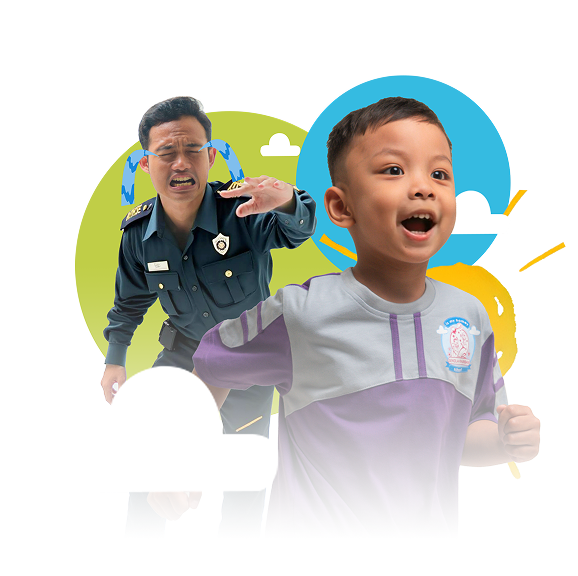
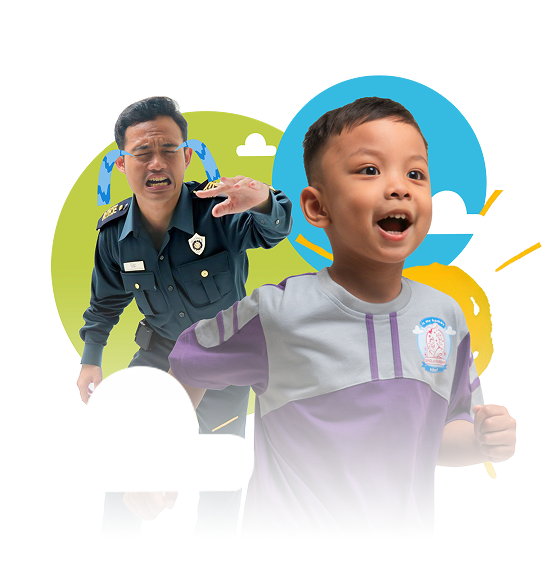
update

diff --git a/public/assets/css/app.css b/public/assets/css/app.css
@@ -1,6 +1,8 @@
 /* Global styles */
 body {
     font-family: 'Poppins', sans-serif !important;
+    font-weight: 900;
+    font-style: normal;
     line-height: 1.5;
     max-width: 500px;
     margin: auto !important;
@@ -11,7 +13,8 @@ body {
 }
 
 .tittle {
-    font-weight: 900 !important;
+    font-weight: 700 !important;
+    color: #333333 !important;
 }
 
 .container-program {
@@ -57,6 +60,35 @@ body {
     background-image: linear-gradient( #EEDDFF, #FFF);
 }
 
+.ellipse_pink {
+    position: absolute;
+    bottom: -15%;
+    right: 0;
+}
+
+.icon_wajik {
+    position: absolute;
+    top: 6%;
+    left: 50%;
+}
+
+.icon_wajik_2 {
+    position: absolute;
+    top: 11%;
+    left: 55%;
+}
+
+.section-9 {
+    margin-top: 1rem;
+    position: relative;
+}
+
+.icon_underscore {
+    position: absolute;
+    top: 13%;
+    left: 36%;
+}
+
 .img-sec-5 {
     position: relative;
     left: 175px;
@@ -64,7 +96,7 @@ body {
 
 .text-sec-5 {
     position: absolute;
-    width: 13%;
+    width: 37%;
     z-index: 1000;
     margin-left: 2rem;
 }
@@ -122,8 +154,8 @@ body {
 }
 .txt-nyaman {
     color: #333333;
-    font-weight: 900;
-    -webkit-text-stroke: 10px white;
+    font-weight: 700;
+    -webkit-text-stroke: 5px white;
     paint-order: stroke fill;
 }
 
@@ -148,7 +180,7 @@ body {
     margin-left: auto;
     margin-right: auto;
     width: 275px;
-    height: 360px;
+    height: 300px;
     border-radius: 1rem;
     background-color: #f3efef;
     object-fit: cover;
@@ -162,8 +194,14 @@ body {
 
 .icon-toga {
     position: absolute;
-    top: 18%;
-    right: 17%;
+    top: 20%;
+    right: 20%;
+}
+
+.ellipse_purple {
+    position: absolute;
+    top: 23%;
+    right: 0;
 }
 
 .icon-toga-2 {
@@ -204,11 +242,10 @@ body {
 .embed-responsive-short {
     display: flex;
     justify-content: center;
-    height: 500px;
+    height: 800px;
 }
 
 iframe {
-    aspect-ratio: 16 / 9;
     width: 100% !important;
 }
 
@@ -371,11 +408,10 @@ iframe {
     
     .text-sec-5 {
         position: absolute;
-        width: 38%;
+        width: 40%;
         left: 50px;
         z-index: 1000;
         margin-left: 0;
-        font-size: 12px;
 
     }
 
@@ -411,6 +447,30 @@ iframe {
         3s linear 0s infinite alternate toright;
     }
 
+    .icon_underscore {
+        position: absolute;
+        top: 12%;
+        left: 43%;
+    }
+
+    .ellipse_purple {
+        position: absolute;
+        top: 19%;
+        right: 0;
+    }
+
+    .icon_wajik {
+        position: absolute;
+        top: 6%;
+        left: 55%;
+    }
+    
+    .icon_wajik_2 {
+        position: absolute;
+        top: 11%;
+        left: 60%;
+    }
+
   }
 
   @property --num {
@@ -422,7 +482,8 @@ iframe {
   .counter {
     animation: counter 5s forwards ease-in-out;
     counter-reset: num var(--num);
-    font: 800 40px system-ui;
+    font-family: 'roboto';
+    font: 800 60px system-ui;
     padding: 2rem;
   }
   

diff --git a/resources/views/index.blade.php b/resources/views/index.blade.php
@@ -4,54 +4,13 @@
 
     <div class="container">
         <div class="section-1">
-            <img src="{{asset('assets/images/text_rsu.png')}}" alt="text_rabbani_school" width="60%" >
-
-            <div class="mt-3">
-                {{-- <button class="btn-mulai"> <b> Ayo Mulai </b> </button> --}}
-            </div>
-
-            <img src="{{asset('assets/images/cover.png')}}" alt="cover" width="100%" >
-            
-            <div class="d-flex">
-                <div class="card-1">
-                    <div class="d-flex" style="justify-content: space-between">
-                        <img src="{{asset('assets/images/m_rifki.png')}}" alt="p_m_rifki" width="15%" >
-                        <img src="{{asset('assets/images/5_star.png')}}" alt="5_star" width="30%" height="45%" >
-                    </div>
-
-                    <h6 class="mb-1 mt-2"><b> Dr. H. Mochamad Rifki Romdhoni, S.Ag., M.M.Pd </b> </h6>
-                    <p class="mb-2" style="font-size: 8px"> <i> Tim Penguji Kemenag </i> </p>
-                    <p style="text-align: justify; font-size: 10px"> “Alhamdulillah Untuk sekolah Rabbani hasil penilaian kami terkait dengan <b>hafalan qur'an sangat memuaskan </b> dan di atas standar, 
-                        terlihat bukti keberhasilan bapak ibu <b>guru pembimbing tahfidz</b> di sekolah rabbani berhasil membimbing anak-anaknya.” 
-                    </p>
-                </div>
-                <div class="" style="width:30%">
-                    <img src="{{asset('assets/images/card_3k.png')}}" alt="card_3k" width="120" >
-                    <img src="{{asset('assets/images/hand_hold_quran.png')}}" alt="icon_hand_quran" width="100" >
-                </div>
-            </div>
-            <div class="d-flex" style="align-items: center">
-                <img src="{{asset('assets/images/innovate_icon.png')}}" alt="cover" width="25%" >
-
-                <div class="card-2">
-                    <div class="d-flex" style="justify-content: space-between">
-                        <img src="{{asset('assets/images/bambang_ariyanto.png')}}" alt="bambang_ariyanto" width="15%" >
-                        <img src="{{asset('assets/images/5_star.png')}}" alt="5_star" width="30%" height="45%" >
-                    </div>
-
-                    <h6 class="mb-1 mt-2"> <b> Bambang Ariyanto </b> </h6>
-                    <p class="mb-2" style="font-size: 8px"> <i> Kepala Bidang PPSD Dinas Pendidikan Kota Bandung </i> </p>
-                    <p style="text-align: justify; font-size: 10px"> “Saya tidak bisa menggambarkan dengan kata lain selain bombastis, karena sekolah rabbani 
-                        <b>sudah melebihi target Kemendikbud.</b> Dari banyak sekolah yang mengundang saya, baru kali ini <b>saya merintihkan air mata.</b>” 
-                    </p>
-                </div>
-            </div>
+            <img src="{{asset('assets/images/home.png')}}" alt="home" width="100%" >
         </div>
     </div>
 
     <div class="container">
         <div class="d-flex">
-            <h3 class="tittle" style="margin-left: 1rem"> Ucap <b style="color: #30BAFF"> 3000 orang </b> lebih tentang Sekolah Rabbani </h3>
+            <h3 class="tittle" style="margin-left: 1rem"> Ucap <span style="color: #30BAFF"> 3000 orang </span> lebih tentang Sekolah Rabbani </h3>
             <img src="{{asset('assets/images/icon_basket.png')}}" alt="5_star" width="120" >
         </div>
     </div>
@@ -76,10 +35,11 @@
     </div>
 
     <div class="container">
-        <h2 class="mx-3 tittle"> <b> Program <span style="color: #30BAFF"> Unggulan </span> </b></h2>
+        <h2 class="mx-3 tittle"> Program <span style="color: #30BAFF"> Unggulan </span></h2>
         <div class="center">
             <div class="embed-responsive-short embed-responsive-16by9">
                 <iframe
+                    width="459"
                     src="https://www.youtube.com/embed/TtNjWS4iaRw?si=neEcCs7O6_4obRZk?autoplay=1"
                     title="YouTube video player"
                     frameborder="0"
@@ -89,7 +49,7 @@
                 </iframe>
             </div>
 
-            <p class="container" style="text-align: justify; font-size:14px"> Nah gimana? sudah liat kan videonya. Banyak lho program kegiatan untuk anak mengembangkan stimulasi sejak dini. 
+            <p class="container" style="text-align: justify; font-size:11px"> Nah gimana? sudah liat kan videonya. Banyak lho program kegiatan untuk anak mengembangkan stimulasi sejak dini. 
                 Jangan lama-lama yaa...
             </p>
         </div>
@@ -102,18 +62,19 @@
         <img class="icon-cloud-1" src="{{asset('assets/images/icon_cloud.png')}}" alt="cloud-1" width="23%" >
         <img class="icon-cloud-2" src="{{asset('assets/images/icon_cloud_2.png')}}" alt="cloud-2" width="18%" >
         <img class="icon-toga-2" src="{{asset('assets/images/icon_toga.png')}}" alt="icon_toga" width="25%" >
+        <img class="ellipse_purple" src="{{asset('assets/images/ellipse_purple.png')}}" alt="icon_ellipse_purple" width="25%" >
         
 
         <div class="container">
-            <h1 class="tittle"> <b> Kalau Ayah/Bunda sudah yakin, boleh langsung <span style="color:#FF3EAA"> daftar aja!! </span> </b> </h1>
+            <h1 class="tittle"> Kalau Ayah/Bunda sudah yakin, boleh langsung <span style="color:#FF3EAA"> daftar aja!! </span> </h1>
 
             <div class="frame mt-5">
-                <img class="center zoom" src="{{asset('assets/images/siswi_cover.png')}}" alt="siswi_cover" width="100%" >
+                <img class="center" src="{{asset('assets/images/siswi_cover.png')}}" alt="siswi_cover" width="100%" >
             </div>
 
         </div>
 
-        <h4 class="mx-3" style="font-weight: 600"> <b> Ayo Ayah/Bunda sekolahkan anaknya di sini!! </b> </h4>
+        <h5 class="mx-3" style="font-weight: 600; color: #333333"> Ayo Ayah/Bunda sekolahkan anaknya di sini!! </h5>
 
         <div class="keunggulan mt-3" style="font-size: 13px">
             <div class="d-flex" style="align-items: center">
@@ -129,22 +90,26 @@
                 <span class="mx-2"> Memiliki Ekskul Wajib (Berenang, Memanah, dan Berkuda) </span>
             </div>
         </div>
+        <img class="ellipse_pink" src="{{asset('assets/images/ellipse_pink.png')}}" alt="ellipse_pink" width="20%" >      
     </div>
 
     <div class="section-5">
         <div class="container">
-            <div>
+            <div style="position: relative">
+                <img class="icon_wajik" src="{{asset('assets/images/icon_wajik.png')}}" alt="wajik" width="5%" >      
+                <img class="icon_wajik_2" src="{{asset('assets/images/icon_wajik.png')}}" alt="wajik" width="3%" >      
                 <div class="mt-3 text-sec-5">
-                    <p class="mb-2" style="font-size: 11px"> Ehh.. Ayah/Bunda masih penasaran ya sama <b> Sekolah Rabbani? </b> </p>
-                    <h2 class="mt-2 txt-nyaman" > Ini yang buat anak <span style="color: #FF3EAA"> gak mau pulang </span> dari Sekolah!! </h2>
+                    <p class="mb-2" style="font-size: 11px"> Ehh.. Ayah/Bunda masih penasaran ya sama Sekolah Rabbani? </p>
+                    <h3 class="mt-2 txt-nyaman" > Ini yang buat anak <span style="color: #FF3EAA"> gak mau pulang </span> dari Sekolah!! </h3>
                 </div>
-                <img class="img-sec-5" src="{{asset('assets/images/cover_nyaman.png')}}" alt="cover_5" width="60%" >
+               
+                <img class="img-sec-5" src="{{asset('assets/images/cover_nyaman.png')}}" alt="cover_5" width="63%" >
             </div>
         </div>
     </div>
 
     <div class="container mt-3">
-        <h1 class="ml-2 mb-3"> <b> <span style="color: #30BAFF"> Fasilitas </span>  Nyaman </b> </h1>
+        <h1 class="ml-2 mb-3 tittle"> <span style="color: #30BAFF"> Fasilitas </span>  Nyaman </h1>
         <div class="d-flex justify-content-center">
             <img src="{{asset('assets/images/fasil_kelas.png')}}" alt="kelas" width="45%" >
             <img src="{{asset('assets/images/fasil_lift.png')}}" alt="lift"  width="45%" >
@@ -179,7 +144,7 @@
         <div class="container ">
             <img class="icon-rocket" src="{{asset('assets/images/icon_rocket.png')}}" alt="rocket"  width="30%" >
             <img class="icon-cloud-3" src="{{asset('assets/images/icon_cloud_2.png')}}" alt="cloud"  width="22%" >
-            <h1 class="ml-2 tittle" style="width: 67%;"> <b> Lokasi Sekolah Rabbani <span style="color: #FF3EAA"> Mudah dijangkau </span> oleh Ayah/Bunda </b> </h1>
+            <h1 class="ml-2 tittle" style="width: 67%;">Lokasi Sekolah Rabbani <span style="color: #FF3EAA"> Mudah dijangkau </span> oleh Ayah/Bunda  </h1>
             <span class="ml-2" style="font-size: 12px" > Yuk kita lihat Sekolah Rabbani ada di mana saja! </span>
         </div>
         <img class="center" src="{{asset('assets/images/lokasi_sekolah.png')}}" alt="lokasi_sekolah"  width="100%" >
@@ -200,7 +165,7 @@
 
             <button class="center my-3 text-white btn-trial-class" onclick="daftar()" style="text-decoration: none"> IKUTI TRIAL CLASSNYA  </button>
             
-            <h4 class="ml-2 mt-4 tittle" style="width: 90%;"> <b> Disini Ayah/Bunda juga bisa <span style="color: #30BAFF"> mengawal perkembangan anak sambil belajar, </span> melalui program-program </b> </h4>
+            <h4 class="ml-2 mt-4 tittle" style="width: 90%;"> Disini Ayah/Bunda juga bisa <span style="color: #30BAFF"> mengawal perkembangan anak sambil belajar, </span> melalui program-program </h4>
             <div class="container-program">
                 <div class="center mx-3">
                     <img src="{{asset('assets/images/qp.png')}}" alt="qp"  width="100%" >
@@ -246,9 +211,10 @@
     </div>
 
     <div class="section-9 mt-3">
+        <img class="icon_underscore" src="{{asset('assets/images/icon_underscore.png')}}" alt="underscore"  width="25%" >
         <div class="container">
             <div class="d-flex mb-3" style="align-items: center">
-                <h4 class="ml-2 tittle" style="width: 70%"> <b> Apa yang <span style="color: #30BAFF"> Dikatakan </span> Orangtua terhadap Sekolah Rabbani </b></h4>
+                <h4 class="ml-2 tittle" style="width: 70%; line-height: normal; color: black !important"> Apa yang <span style="color: #30BAFF"> Dikatakan </span> Orangtua terhadap Sekolah Rabbani </h4>
                 <div class="center">
                     <button style="border: none; background:none" onclick="prevSlide()"> 
                         <i style="width: 10%; color: #30BAFF" class="fa-solid fa-circle-chevron-left fa-lg"></i> 
@@ -291,7 +257,7 @@
         </div>
             
         <div class="center text-kelas mt-3">
-            <h3 class="p-3"> <b> Ayo Bergabung Bersama Sekolah Rabbani! Tempat Tumbuhnya Generasi Qurani dan Berprestasi! </b> </h3>
+            <h3 class="p-3" style="font-weight: 700"> Ayo Bergabung Bersama Sekolah Rabbani! Tempat Tumbuhnya Generasi Qurani dan Berprestasi! </h3>
             <h5 class="p-3 mx-3"> Daftar Sekarang & Dapatkan Info Lengkapnya! </h5>
 
             <a href="https://sekolahrabbani.sch.id/pendaftaran" target="_blank" style="text-decoration: none; color: black" class="center btn-daftar-sekolah my-3"> DAFTAR <b> SEKOLAH </b> </a>
@@ -312,14 +278,14 @@
             </div>
 
             <div class="d-grid-footer" style="width: 80%;">
-                <a href="#" style="text-decoration: none; color: white"> Home </a>
-                <a href="#" style="text-decoration: none; color: white"> Profile </a>
-                <a href="#" style="text-decoration: none; color: white"> Kurikulum </a>
-                <a href="#" style="text-decoration: none; color: white"> Karir </a>
-                <a href="#" style="text-decoration: none; color: white"> Review </a>
-                <a href="#" style="text-decoration: none; color: white"> Contact Us </a> 
-                <a href="#" style="text-decoration: none; color: white"> PPDB </a> 
-                <a href="#" style="text-decoration: none; color: white"> Email </a> 
+                <a href="#" style="text-decoration: none; color: white; font-size: 13px"> Home </a>
+                <a href="#" style="text-decoration: none; color: white; font-size: 13px"> Profile </a>
+                <a href="#" style="text-decoration: none; color: white; font-size: 13px"> Kurikulum </a>
+                <a href="#" style="text-decoration: none; color: white; font-size: 13px"> Karir </a>
+                <a href="#" style="text-decoration: none; color: white; font-size: 13px"> Review </a>
+                <a href="#" style="text-decoration: none; color: white; font-size: 13px"> Contact Us </a> 
+                <a href="#" style="text-decoration: none; color: white; font-size: 13px"> PPDB </a> 
+                <a href="#" style="text-decoration: none; color: white; font-size: 13px"> Email </a> 
             </div>
            
             <div class="center mt-5 text-white">

diff --git a/resources/views/layouts/app.blade.php b/resources/views/layouts/app.blade.php
@@ -5,7 +5,7 @@
     <meta name="viewport" content="width=device-width, initial-scale=1.0">
     <title>PPDB Sekolah Rabbani</title>
     <link href="{{ asset('assets/images/logo-yayasan.png') }}" rel="icon" type="image/jpg">
-    <link href='https://fonts.googleapis.com/css?family=Poppins' rel='stylesheet'>
+    <link href='https://fonts.googleapis.com/css?family=Poppins|Poppins:600,700,800,900' rel='stylesheet'>
     <link rel="stylesheet" href="{{ asset('assets/css/app.css?v=').time() }}">
     <link href="https://cdn.jsdelivr.net/npm/bootstrap@5.3.2/dist/css/bootstrap.min.css" rel="stylesheet" integrity="sha384-T3c6CoIi6uLrA9TneNEoa7RxnatzjcDSCmG1MXxSR1GAsXEV/Dwwykc2MPK8M2HN" crossorigin="anonymous">
     <link href="https://cdnjs.cloudflare.com/ajax/libs/font-awesome/6.5.1/css/all.min.css" rel="stylesheet"  type='text/css'>
